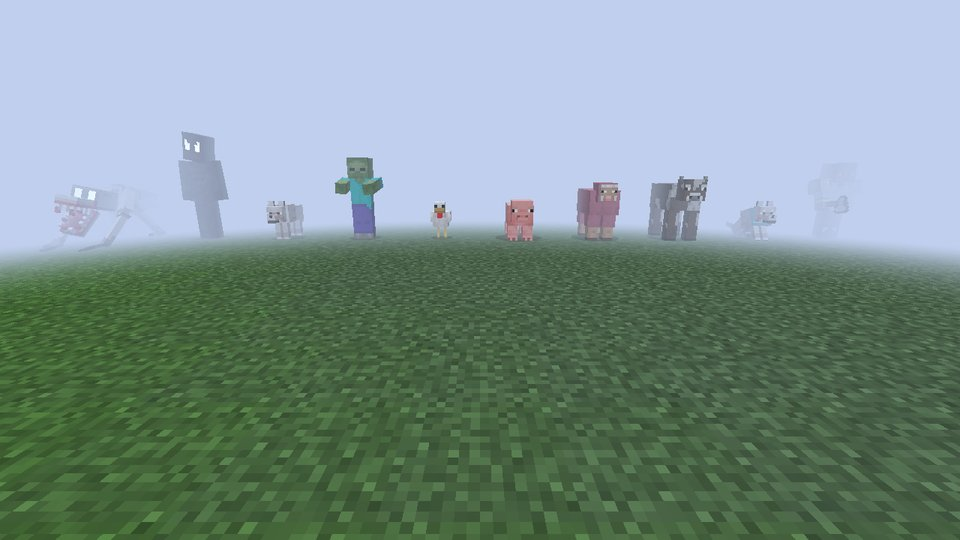
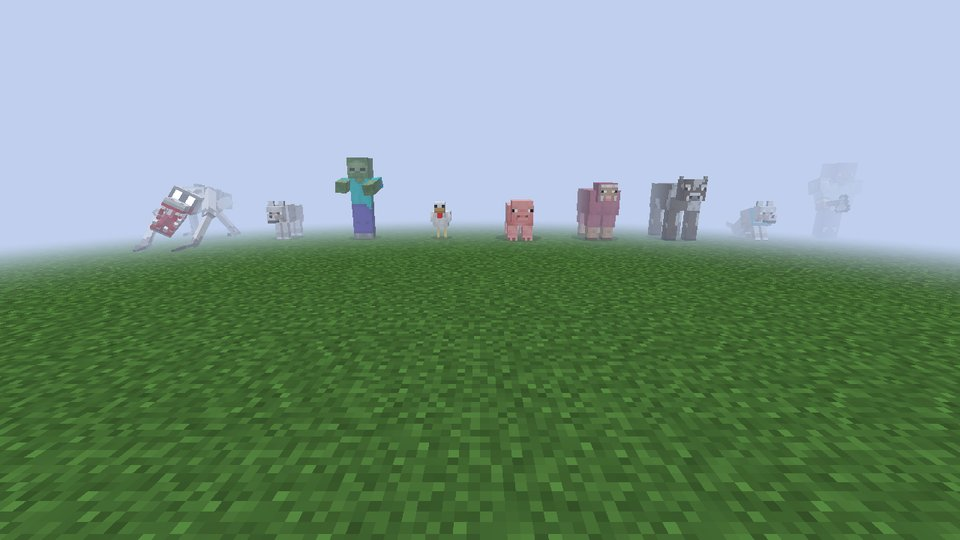
Make the pale crawler the one and only Fog Lurker
Remove the tall black watcher form, its model, renderer and textures.
The far-off watcher appearances now use the pale crawler, and the
'watcher'/'true_form' spawn names map to it. Screenshots regenerated.

Claude-Session: https://claude.ai/code/session_01Gv44GSyfjghHcBPor9CnoT

diff --git a/src/main/java/com/foglurker/entity/FogLurkerEntity.java b/src/main/java/com/foglurker/entity/FogLurkerEntity.java
@@ -99,7 +99,7 @@ public class FogLurkerEntity extends PathfinderMob {
         if (this.getNavigation() instanceof GroundPathNavigation nav) {
             nav.setCanOpenDoors(true);
         }
-        applyMovementRules(Disguise.NONE);
+        applyMovementRules(Disguise.CRAWLER);
     }
 
     public static AttributeSupplier.Builder createAttributes() {
@@ -116,7 +116,7 @@ public class FogLurkerEntity extends PathfinderMob {
     @Override
     protected void defineSynchedData() {
         super.defineSynchedData();
-        this.entityData.define(DATA_DISGUISE, Disguise.NONE.ordinal());
+        this.entityData.define(DATA_DISGUISE, Disguise.CRAWLER.ordinal());
         this.entityData.define(DATA_MIMIC_UUID, Optional.empty());
         this.entityData.define(DATA_MIMIC_NAME, "");
         this.entityData.define(DATA_SKIN, 0x7F | (1 << 8));
@@ -532,7 +532,7 @@ public class FogLurkerEntity extends PathfinderMob {
             case WOLF -> SoundEvents.WOLF_AMBIENT;
             case DOG -> hasFlag(FLAG_ANGRY) ? SoundEvents.WOLF_GROWL
                     : this.random.nextInt(3) == 0 ? SoundEvents.WOLF_WHINE : SoundEvents.WOLF_PANT;
-            case NONE, CRAWLER -> ModSounds.WHISPER.get();
+            case CRAWLER -> ModSounds.WHISPER.get();
             case PLAYER -> null; // players do not make idle noises
         };
     }
@@ -541,7 +541,7 @@ public class FogLurkerEntity extends PathfinderMob {
     public int getAmbientSoundInterval() {
         return switch (getDisguise()) {
             case PLAYER -> Integer.MAX_VALUE;
-            case NONE, CRAWLER -> 160;
+            case CRAWLER -> 160;
             case CHICKEN -> 100;
             default -> 120;
         };
@@ -557,7 +557,7 @@ public class FogLurkerEntity extends PathfinderMob {
             case ZOMBIE -> SoundEvents.ZOMBIE_HURT;
             case WOLF, DOG -> SoundEvents.WOLF_HURT;
             case PLAYER -> SoundEvents.PLAYER_HURT;
-            case NONE, CRAWLER -> ModSounds.HURT.get();
+            case CRAWLER -> ModSounds.HURT.get();
         };
     }
 
@@ -570,7 +570,7 @@ public class FogLurkerEntity extends PathfinderMob {
     public float getVoicePitch() {
         float base = super.getVoicePitch();
         return switch (getDisguise()) {
-            case NONE, CRAWLER -> base * 0.6F;
+            case CRAWLER -> base * 0.6F;
             case PLAYER -> base;
             // Animals sound almost right. Almost.
             default -> base * 0.9F;

diff --git a/src/main/java/com/foglurker/client/FogLurkerRenderer.java b/src/main/java/com/foglurker/client/FogLurkerRenderer.java
@@ -16,12 +16,10 @@ import net.minecraft.world.phys.Vec3;
  * real skin and name tag. While it transforms, it flickers between the disguise and its true form.
  */
 public class FogLurkerRenderer extends EntityRenderer<FogLurkerEntity> {
-    private final TrueFormRenderer watcher;
     private final CrawlerRenderer crawler;
 
     public FogLurkerRenderer(EntityRendererProvider.Context ctx) {
         super(ctx);
-        this.watcher = new TrueFormRenderer(ctx);
         this.crawler = new CrawlerRenderer(ctx);
         this.shadowRadius = 0.5F;
     }
@@ -31,7 +29,7 @@ public class FogLurkerRenderer extends EntityRenderer<FogLurkerEntity> {
                        int light) {
         boolean transforming = lurker.isTransforming();
         Disguise disguise = lurker.getDisguise();
-        boolean showTrue = disguise == Disguise.NONE || disguise == Disguise.CRAWLER;
+        boolean showTrue = disguise == Disguise.CRAWLER;
         if (transforming) {
             int t = lurker.tickCount;
             showTrue = ((t * 7 + (t >> 2)) % 5) < 2;
@@ -55,12 +53,8 @@ public class FogLurkerRenderer extends EntityRenderer<FogLurkerEntity> {
             }
         }
         if (showTrue) {
-            // While it transforms it flickers between the stolen shape and the crawler underneath.
-            if (transforming || disguise == Disguise.CRAWLER) {
-                crawler.render(lurker, yaw, partialTick, pose, buffers, light);
-            } else {
-                watcher.render(lurker, yaw, partialTick, pose, buffers, light);
-            }
+            // While it transforms it flickers between the stolen shape and the pale thing underneath.
+            crawler.render(lurker, yaw, partialTick, pose, buffers, light);
         }
         if (transforming) {
             pose.popPose();
@@ -85,6 +79,6 @@ public class FogLurkerRenderer extends EntityRenderer<FogLurkerEntity> {
 
     @Override
     public ResourceLocation getTextureLocation(FogLurkerEntity entity) {
-        return TrueFormRenderer.TEXTURE;
+        return CrawlerRenderer.TEXTURE;
     }
 }

diff --git a/src/main/java/com/foglurker/entity/Disguise.java b/src/main/java/com/foglurker/entity/Disguise.java
@@ -8,11 +8,10 @@ import net.minecraft.world.entity.animal.Wolf;
 import javax.annotation.Nullable;
 
 /**
- * Every shape the creature can take. NONE is the tall "watcher" seen far away in the fog; CRAWLER is
- * its pale attacking form. Ordinals are synced to clients, so new shapes go at the end.
+ * Every shape the creature can take. CRAWLER is the Fog Lurker itself: the pale thing on all fours
+ * that watches from the fog and attacks. Everything else is a stolen shape.
  */
 public enum Disguise {
-    NONE("watcher", null, 0.6F, 1.95F),
     PLAYER("player", null, 0.6F, 1.8F),
     COW("cow", EntityType.COW, 0.9F, 1.4F),
     SHEEP("sheep", EntityType.SHEEP, 0.9F, 1.3F),
@@ -54,7 +53,7 @@ public enum Disguise {
     }
 
     public boolean isHumanoid() {
-        return this == PLAYER || this == ZOMBIE || this == NONE;
+        return this == PLAYER || this == ZOMBIE;
     }
 
     /** The attacking form: water is its weakness. Every other form can swim. */
@@ -69,7 +68,7 @@ public enum Disguise {
 
     public static Disguise byId(int ordinal) {
         Disguise[] v = values();
-        return ordinal >= 0 && ordinal < v.length ? v[ordinal] : NONE;
+        return ordinal >= 0 && ordinal < v.length ? v[ordinal] : CRAWLER;
     }
 
     @Nullable
@@ -79,8 +78,8 @@ public enum Disguise {
                 return d;
             }
         }
-        if (name.equalsIgnoreCase("true_form") || name.equalsIgnoreCase("attack_form")) {
-            return name.equalsIgnoreCase("true_form") ? NONE : CRAWLER;
+        if (name.equalsIgnoreCase("true_form") || name.equalsIgnoreCase("watcher") || name.equalsIgnoreCase("fog_lurker")) {
+            return CRAWLER;
         }
         return null;
     }

diff --git a/src/main/java/com/foglurker/client/ClientDebug.java b/src/main/java/com/foglurker/client/ClientDebug.java
@@ -51,13 +51,12 @@ public final class ClientDebug {
             check("Crawler model", false, t.toString());
         }
         List<String> missingTex = new ArrayList<>();
-        for (ResourceLocation tex : List.of(TrueFormRenderer.TEXTURE, FogLurkerMod.id("textures/entity/fog_lurker_eyes.png"),
-                CrawlerRenderer.TEXTURE, CrawlerRenderer.EYES_TEXTURE)) {
+        for (ResourceLocation tex : List.of(CrawlerRenderer.TEXTURE, CrawlerRenderer.EYES_TEXTURE)) {
             if (mc.getResourceManager().getResource(tex).isEmpty()) {
                 missingTex.add(tex.getPath());
             }
         }
-        check("Textures", missingTex.isEmpty(), missingTex.isEmpty() ? "watcher, crawler and both glowing-eye layers" : "missing " + missingTex);
+        check("Textures", missingTex.isEmpty(), missingTex.isEmpty() ? "pale crawler and its glowing eyes" : "missing " + missingTex);
         List<String> missingSounds = new ArrayList<>();
         for (String s : List.of("lurker.scream", "lurker.reveal", "lurker.whisper", "lurker.vanish", "lurker.heartbeat",
                 "lurker.hurt", "lurker.attack")) {
@@ -71,7 +70,7 @@ public final class ClientDebug {
         List<String> broken = new ArrayList<>();
         int ok = 0;
         for (Disguise d : Disguise.values()) {
-            if (d == Disguise.NONE || d == Disguise.CRAWLER) {
+            if (d == Disguise.CRAWLER) {
                 continue;
             }
             FogLurkerEntity e = ModEntities.FOG_LURKER.get().create(mc.level);

diff --git a/src/main/java/com/foglurker/brain/LurkerDirector.java b/src/main/java/com/foglurker/brain/LurkerDirector.java
@@ -246,7 +246,7 @@ public final class LurkerDirector {
             options.add(new Option(modeFor(forced, friend != null), forced, 1));
         } else {
             if (!willAttack && r.nextDouble() < diff.pureWatchChance()) {
-                options.add(new Option(LurkerBrain.Mode.WATCHER, Disguise.NONE, 1));
+                options.add(new Option(LurkerBrain.Mode.WATCHER, Disguise.CRAWLER, 1));
             } else {
                 if (friend != null) {
                     options.add(new Option(LurkerBrain.Mode.MIMIC, Disguise.PLAYER, 55));
@@ -271,7 +271,7 @@ public final class LurkerDirector {
                 if (dark) {
                     options.add(new Option(LurkerBrain.Mode.ZOMBIE, Disguise.ZOMBIE, 12));
                 }
-                options.add(new Option(LurkerBrain.Mode.WATCHER, Disguise.NONE, willAttack ? 0 : 6));
+                options.add(new Option(LurkerBrain.Mode.WATCHER, Disguise.CRAWLER, willAttack ? 0 : 6));
             }
         }
         Option pick = weighted(options, r);
@@ -318,7 +318,7 @@ public final class LurkerDirector {
             case PLAYER -> hasFriend ? LurkerBrain.Mode.MIMIC : LurkerBrain.Mode.DOPPELGANGER;
             case DOG -> LurkerBrain.Mode.DOG;
             case ZOMBIE -> LurkerBrain.Mode.ZOMBIE;
-            case NONE, CRAWLER -> LurkerBrain.Mode.WATCHER;
+            case CRAWLER -> LurkerBrain.Mode.WATCHER;
             default -> LurkerBrain.Mode.HERD;
         };
     }

diff --git a/src/gametest/java/com/foglurker/test/ClientShowcase.java b/src/gametest/java/com/foglurker/test/ClientShowcase.java
@@ -124,7 +124,7 @@ public final class ClientShowcase {
         stageZ = z0;
         sp.teleportTo(level, x0 + 0.5, y, z0 - 3.5, 0F, 14F);
         Disguise[] row = {Disguise.PLAYER, Disguise.DOG, Disguise.COW, Disguise.SHEEP, Disguise.PIG,
-                Disguise.CHICKEN, Disguise.ZOMBIE, Disguise.WOLF, Disguise.NONE, Disguise.CRAWLER};
+                Disguise.CHICKEN, Disguise.ZOMBIE, Disguise.WOLF, Disguise.CRAWLER};
         for (int i = 0; i < row.length; i++) {
             Disguise d = row[i];
             int x = x0 - 9 + i * 2;
@@ -157,7 +157,7 @@ public final class ClientShowcase {
         }
     }
 
-    private static final int CRAWLER_INDEX = 9;
+    private static final int CRAWLER_INDEX = 8;
 
     /** Puts the camera at an offset from the n-th creature in the row. */
     private static void camera(MinecraftServer server, int index, double dx, double dz, float yaw, float pitch) {

diff --git a/src/main/java/com/foglurker/command/FogLurkerCommands.java b/src/main/java/com/foglurker/command/FogLurkerCommands.java
@@ -211,7 +211,7 @@ public final class FogLurkerCommands {
             case MIMIC -> "wearing " + enc.copiedName() + "'s face";
             case DOPPELGANGER -> "wearing their own face";
             case DOG -> "as their dog" + (enc.dogName() != null ? " \"" + enc.dogName() + "\"" : "");
-            case WATCHER -> enc.disguise() == Disguise.CRAWLER ? "as the pale crawler, watching" : "as the tall watcher in the fog";
+            case WATCHER -> "as itself, the pale crawler, watching from the fog";
             default -> "hiding as a " + enc.disguise().id();
         };
         reply(src, Component.literal("It is coming for " + target.getGameProfile().getName() + ", " + as

diff --git a/src/main/java/com/foglurker/debug/DebugCommand.java b/src/main/java/com/foglurker/debug/DebugCommand.java
@@ -215,7 +215,6 @@ public final class DebugCommand {
         r.run("Mod files", (rep, w) -> {
             IModFileInfo file = ModList.get().getModFileById(FogLurkerMod.MOD_ID);
             String[] paths = {"assets/foglurker/lang/en_us.json", "assets/foglurker/sounds.json",
-                    "assets/foglurker/textures/entity/fog_lurker.png", "assets/foglurker/textures/entity/fog_lurker_eyes.png",
                     "assets/foglurker/textures/entity/crawler.png", "assets/foglurker/textures/entity/crawler_eyes.png",
                     "data/foglurker/damage_type/lurker.json", "data/foglurker/damage_type/lurker_oneshot.json",
                     "foglurker_logo.png"};

diff --git a/src/main/java/com/foglurker/brain/LurkerBrain.java b/src/main/java/com/foglurker/brain/LurkerBrain.java
@@ -209,7 +209,7 @@ public final class LurkerBrain {
             case DOG -> mob.setDisguiseName(enc.dogName());
             default -> mob.setDisguiseName(null);
         }
-        animalStats = data.entityStats().get(enc.disguise() == Disguise.NONE ? "wolf" : enc.disguise().learnKey());
+        animalStats = data.entityStats().get(enc.disguise().learnKey());
         sprintPref = copiedProfile != null ? random.nextFloat() < copiedProfile.sprintRatio : random.nextBoolean();
 
         ServerPlayer t = target();

diff --git a/src/main/java/com/foglurker/client/DisguiseCache.java b/src/main/java/com/foglurker/client/DisguiseCache.java
@@ -81,7 +81,7 @@ public final class DisguiseCache {
     @Nullable
     public static LivingEntity get(FogLurkerEntity lurker) {
         Disguise d = lurker.getDisguise();
-        if (d == Disguise.NONE || d == Disguise.CRAWLER || !(lurker.level() instanceof ClientLevel level)) {
+        if (d == Disguise.CRAWLER || !(lurker.level() instanceof ClientLevel level)) {
             CACHE.remove(lurker.getId());
             return null;
         }

diff --git a/README.md b/README.md
@@ -7,7 +7,7 @@ A horror mod for **Minecraft 1.20.1 (Forge 47.x)**.
 Something in the fog has been watching you play. It learns how you move and how you type. It learns what your friends sound like and what your dog is called. Then it uses all of that to lure you into the woods.
 
 ![Every disguise, lined up](docs/images/disguises.jpg)
-*Left to right: its pale attacking form, the watcher, a wolf, a zombie, a chicken, a pig, a sheep, a cow, **your dog** (collar and name copied) and **your friend** (skin, armour and held item copied).*
+*Left to right: the Fog Lurker itself (the pale crawler), a wolf, a zombie, a chicken, a pig, a sheep, a cow, **your dog** (collar and name copied) and **your friend** (skin, armour and held item copied).*
 
 ## What it does
 
@@ -18,16 +18,16 @@ Something in the fog has been watching you play. It learns how you move and how 
 - **It lures you into the woods.** It finds the thickest tree cover nearby (away from the real friend), walks you there and waits when you fall behind. If you stop following, it gets impatient in chat.
 - **It hides among animals.** It can be a cow, sheep, pig, chicken, wolf or zombie in a real herd. It wanders the way the real animals around you wander (it learns that too), but stares at you a little too often and creeps closer when you look away.
 - **It can be your dog.** It copies your tamed wolf's collar colour and name tag. It runs up to you, whines, then runs toward the trees and looks back, the way a dog that "found something" would.
-- **It watches.** Sometimes it is just a tall black figure at the edge of your vision. Look at it too long and it is gone.
+- **It watches.** Sometimes it is just itself, the pale crawler, crouched at the edge of your vision and staring. Look at it too long and it is gone.
 - **The fog rolls in** while it hunts you. When it reveals itself the screen shakes and you hear a heartbeat.
 
 ![Fog while it hunts](docs/images/fog.jpg)
 
 It never really dies. Hurt it badly enough and it melts back into the fog until next time.
 
-## Its attacking form
+## What it really looks like
 
-When it stops pretending, its stolen shape flickers and peels away into **the crawler**. The crawler is pale and albino with gray accents. It moves on all fours, with arms long enough to reach more than a block past its shoulders and grasshopper legs whose knees sit up by its ribs. Its long jaw hangs open, showing a blood-red mouth full of teeth with blood on them, and its eyes are pure white and glow in the dark.
+The Fog Lurker's real shape is **the pale crawler**. When it stops pretending, its stolen shape flickers and peels away into it. The crawler is pale and albino with gray accents. It moves on all fours, with arms long enough to reach more than a block past its shoulders and grasshopper legs whose knees sit up by its ribs. Its long jaw hangs open, showing a blood-red mouth full of teeth with blood on them, and its eyes are pure white and glow in the dark.
 
 | Front | Side |
 |---|---|
@@ -77,7 +77,7 @@ Minecraft commands use spaces, so `foglurker→spawn` is typed `/foglurker spawn
 
 | Command | Who | What it does |
 |---|---|---|
-| `/foglurker spawn [player] [disguise] [attack\|watch]` | cheats / op | Spawns it now. Disguises: `player`, `dog`, `cow`, `sheep`, `pig`, `chicken`, `zombie`, `wolf`, `watcher`, `crawler`, `random` |
+| `/foglurker spawn [player] [disguise] [attack\|watch]` | cheats / op | Spawns it now. Disguises: `player`, `dog`, `cow`, `sheep`, `pig`, `chicken`, `zombie`, `wolf`, `crawler` (itself), `random` |
 | `/foglurker gracetimer` | everyone | Time left in the grace period |
 | `/foglurker spawntimer` | cheats / op | Time until the next spawn roll and whether it is guaranteed (or who it is hunting right now) |
 | `/foglurker setgeminiapikey <key>` | op / singleplayer host | Saves the Gemini API key (encrypted) and tests it. `clear` removes it |
